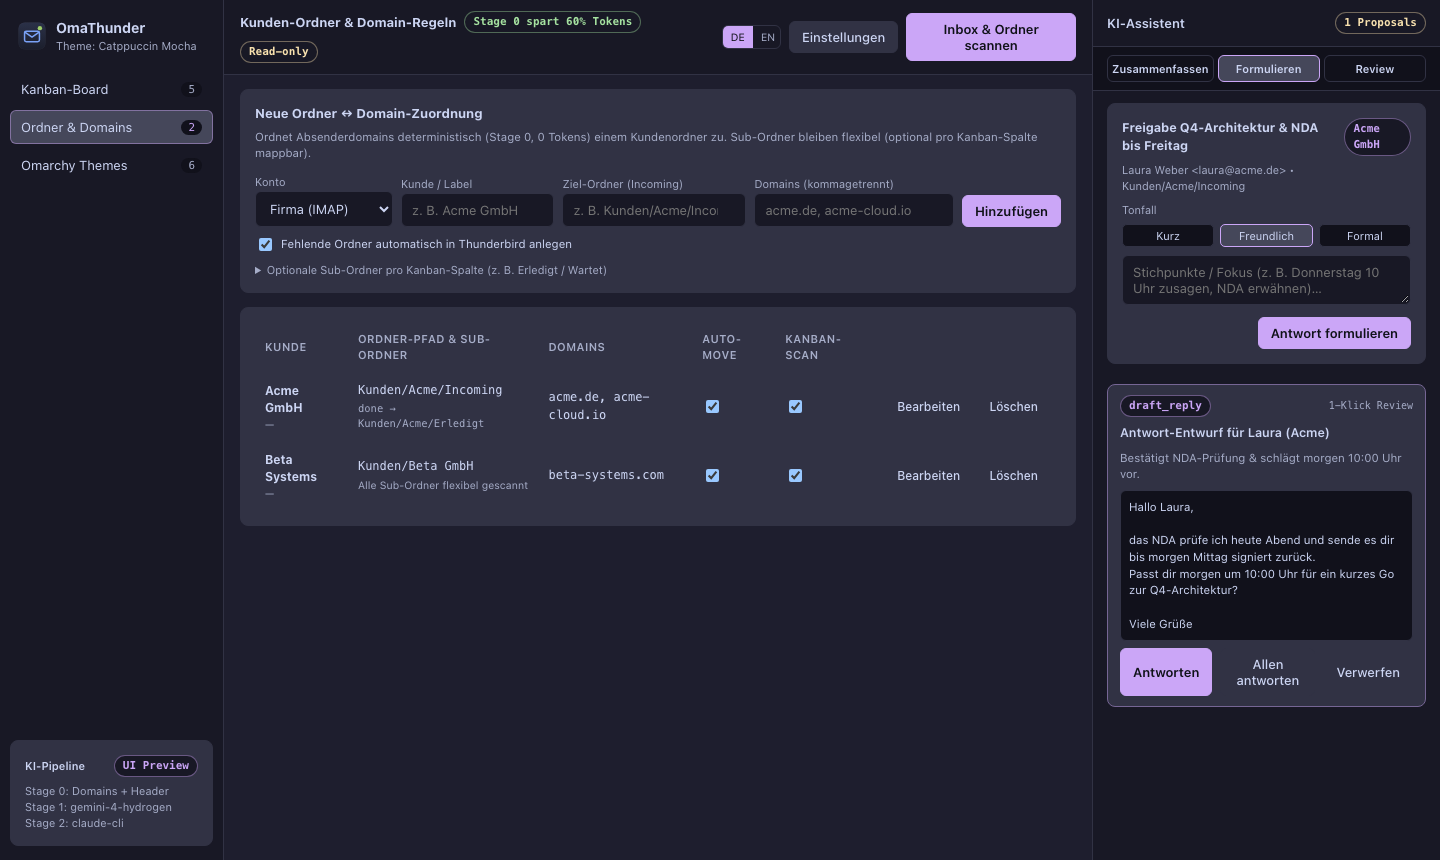
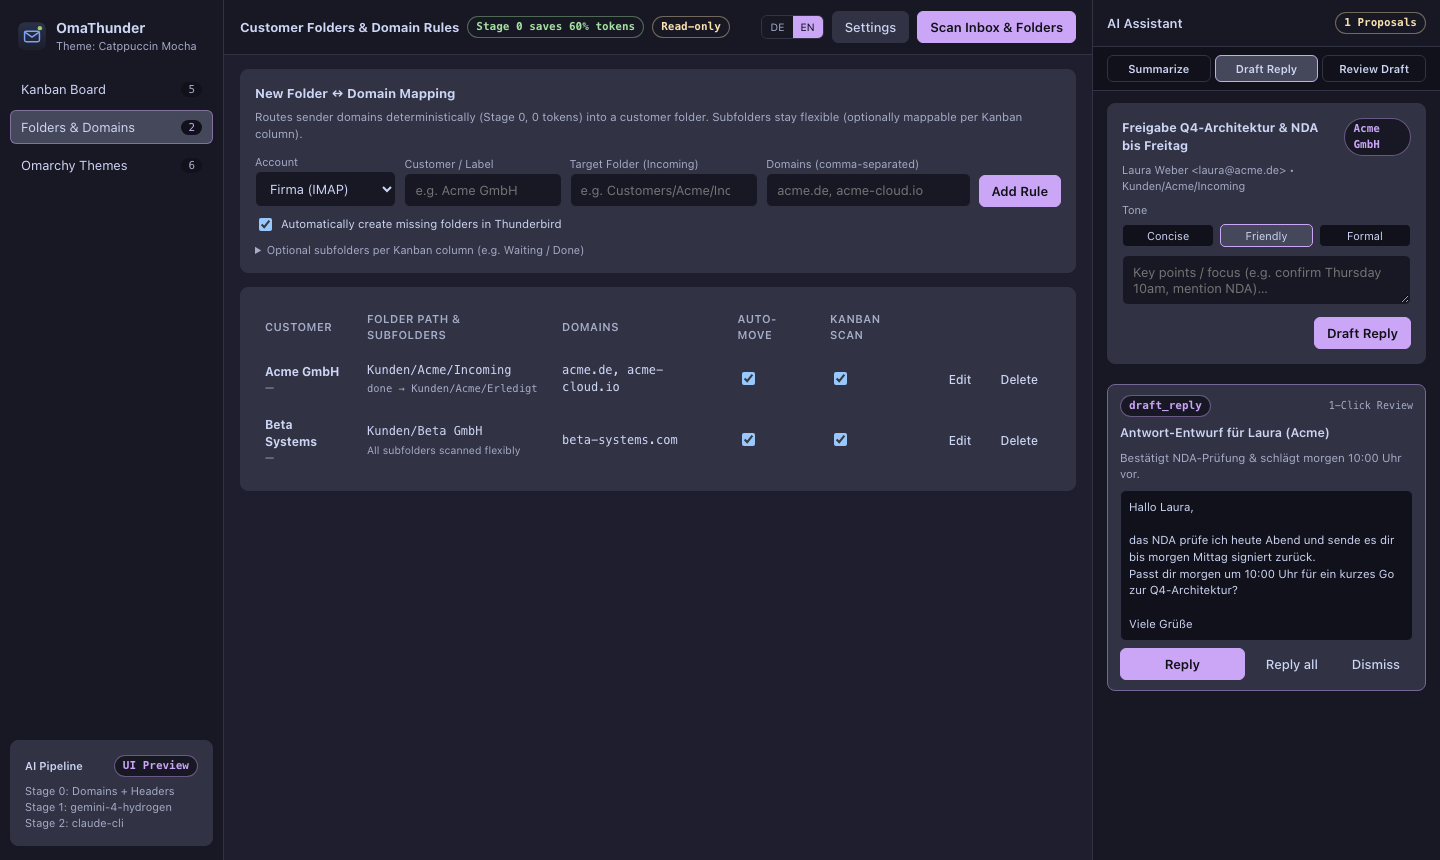
Translate README to English and use English UI in screenshots

diff --git a/README.md b/README.md
@@ -2,176 +2,176 @@
 
 # OmaThunder
 
-**Omarchy-Themes, KI-Schreibassistent und Mail-Triage für Thunderbird – auf Omarchy Linux und macOS.**
+**Omarchy themes, an AI writing assistant and mail triage for Thunderbird – on Omarchy Linux and macOS.**
 
-OmaThunder besteht aus einem Thunderbird-Add-on und einem kleinen Hilfsprogramm (Go), das lokal neben Thunderbird läuft. Die drei Bausteine lassen sich einzeln einschalten:
+OmaThunder consists of a Thunderbird add-on and a small helper program (Go) that runs locally next to Thunderbird. Its three building blocks can be switched on individually:
 
-| Baustein | Was er tut | Standard |
+| Building block | What it does | Default |
 |---|---|---|
-| **Theme-Sync** | Färbt Thunderbird in einem der 22 Omarchy-Themes. Unter Omarchy folgt es live dem aktiven Theme. | an |
-| **KI-Schreibassistent** | Fasst Mails zusammen, formuliert Antworten, prüft und verbessert deine Entwürfe – direkt im Verfassen-Fenster. | an |
-| **Triage** | Scannt Posteingang und Kundenordner, sortiert Mails auf ein Kanban-Board und verschiebt Mails von Kunden-Domains in deren Ordner. | aus |
+| **Theme sync** | Colors Thunderbird in one of 22 Omarchy themes. On Omarchy it follows the active theme live. | on |
+| **AI writing assistant** | Summarizes mails, drafts replies, reviews and improves your drafts – right in the compose window. | on |
+| **Triage** | Scans the inbox and customer folders, sorts mails onto a Kanban board and moves mails from customer domains into their folders. | off |
 
-Gesendet oder gelöscht wird nie etwas. Änderungen an Mails, Ordnern oder Tags sind standardmäßig gesperrt (Read-only).
+Nothing is ever sent or deleted. Changes to mails, folders or tags are blocked by default (read-only).
 
-> **Status:** frühe Version (0.2). Getestet sind Go-Host und Kernlogik per Unit-Tests; der Betrieb in Thunderbird selbst ist noch wenig erprobt. Windows wird gebaut, ist aber ungetestet.
+> **Status:** early version (0.2). The Go host and the core logic are covered by unit tests; running inside Thunderbird has seen little real-world use so far. Windows builds are produced but untested.
 
 ---
 
 ## Installation
 
-Voraussetzung: Thunderbird 128 oder neuer.
+Requires Thunderbird 128 or newer.
 
 ### Homebrew (macOS, Linux)
 
 ```bash
 brew install diver80/tap/omathunder
-omathunder setup        # meldet das Hilfsprogramm bei Thunderbird an (einmalig)
+omathunder setup        # registers the helper program with Thunderbird (once)
 ```
 
-Danach in Thunderbird: **Add-ons und Themes → Zahnrad → Add-on aus Datei installieren** und diese Datei wählen:
+Then in Thunderbird: **Add-ons and Themes → gear icon → Install Add-on From File** and pick:
 
 ```
 $(brew --prefix)/opt/omathunder/share/omathunder/omathunder-extension.xpi
 ```
 
-`omathunder setup` zeigt den genauen Pfad an. Nach einem `brew upgrade omathunder` die `.xpi` erneut installieren, damit Add-on und Hilfsprogramm zusammenpassen. Die Einstellungsseite warnt, wenn sie es nicht tun.
+`omathunder setup` prints the exact path. After `brew upgrade omathunder`, install the `.xpi` again so add-on and helper program match – the settings page warns when they don't.
 
-### Aus dem Quellcode
+### From source
 
 ```bash
 git clone https://github.com/diver80/omathunder.git && cd omathunder
-./build.sh        # Tests, Binaries und dist/omathunder-extension.xpi
-./install.sh      # Binary nach ~/.local/bin, Anmeldung bei Thunderbird
+./build.sh        # tests, binaries and dist/omathunder-extension.xpi
+./install.sh      # binary to ~/.local/bin, registration with Thunderbird
 ```
 
-Anschließend `dist/omathunder-extension.xpi` wie oben in Thunderbird installieren.
+Then install `dist/omathunder-extension.xpi` in Thunderbird as described above.
 
-`setup` und `install.sh` legen nur die Native-Messaging-Anmeldung und ein kleines Startskript an. Thunderbirds Profil und `prefs.js` fassen sie nicht an.
-
----
-
-## Empfohlener Einstieg
-
-1. **Einstellungen öffnen** (Add-on-Optionen oder Knopf im OmaThunder-Tab). Oben unter **Status** muss alles grün sein: Host verbunden, Versionen passen, KI-Backend gefunden.
-2. **Theme und Schreibassistent nutzen.** Triage bleibt aus.
-3. **Triage einschalten, Read-only bleibt an.** Nur das Konto mit den Kundenordnern freigeben, KI-Klassifikation aus lassen. Einen Scan starten und den **Probelauf** prüfen: Er zeigt, welche Mails verschoben würden.
-4. Regeln prüfen (Spalte **Konto**), Auto-Move gezielt pro Regel einschalten.
-5. Erst dann **Read-only ausschalten**. Jeder Scan lässt sich danach über „Verschiebungen dieses Scans zurücknehmen“ rückgängig machen.
+`setup` and `install.sh` only create the native messaging registration and a small launcher script. They never touch Thunderbird's profile or `prefs.js`.
 
 ---
 
-## Schreibassistent
+## Getting started
 
-![Schreibassistent im Verfassen-Fenster](docs/screenshots/compose-assistant.png)
-
-* **Im Verfassen-Fenster** (Knopf „OmaThunder AI“): Entwurf verbessern, Entwurf gegen die Ursprungsmail prüfen, Antwort formulieren oder aus Stichpunkten schreiben. Das Ergebnis erscheint zuerst im Popup; erst „einsetzen“ schreibt es in den Entwurf. Ersetzt wird nur dein eigener Text – Zitat und Signatur bleiben.
-* **An der geöffneten Mail** (Knopf „OmaThunder AI“): zusammenfassen oder Antwort formulieren, auch als „Allen antworten“.
-* **Im OmaThunder-Tab:** dieselben Funktionen für die geöffnete Mail oder eine Board-Karte, inklusive Review deines Entwurfs.
-
-Als Kontext dient der Gesprächsverlauf, verknüpft über die Mail-Header `References` / `In-Reply-To` – nicht nur ein gleicher Betreff. Jede Anfrage ist ein einzelner KI-Aufruf auf deinen Klick.
-
-![Review eines Antwort-Entwurfs](docs/screenshots/space-review.png)
-
-## Triage: Kanban und Kunden-Regeln
-
-![Kanban-Board mit Probelauf im Read-only-Modus](docs/screenshots/space-kanban.png)
-
-* **Board** mit fünf Spalten (Incoming, Action nötig, Wartet, Rechnung/Termin, Erledigt), Filter nach Kunde, Drag & Drop. Karten öffnen die Mail in Thunderbird.
-* **Kunden-Regeln** ordnen Absender-Domains einem Kundenordner zu. Optional verschiebt OmaThunder neue Mails aus dem Posteingang dorthin und mappt Board-Spalten auf Unterordner (z. B. „Erledigt“).
-* **Stufe 0 (lokal, 0 Tokens):** Newsletter, Bot-Mails, Abwesenheitsnotizen und Rechnungen werden über Header und Betreff erkannt. Sicherheits- und Transaktionsmails (Passwort-Reset, Codes, Bestellungen) werden nie automatisch als unwichtig eingestuft.
-* **Stufe 1 (optional, KI):** Was Stufe 0 nicht einordnet, klassifiziert ein schnelles Modell – Gemini API, Claude API, Ollama (lokal) oder eine CLI.
-
-![Kunden-Ordner und Domain-Regeln](docs/screenshots/space-rules.png)
-
-### Token-Verbrauch
-
-* Gescannt wird nur auf Klick (optional zusätzlich bei neuer Mail) und nur die neuesten **20 Mails pro Ordner** der letzten **30 Tage**.
-* **KI-Klassifikation ist standardmäßig aus** – ein Scan kostet dann nichts, die Einordnung ist eine lokale Schätzung.
-* Eingeschaltet gilt eine harte Grenze von **50 KI-Aufrufen pro Scan**; ungelesene Mails zuerst. Bereits klassifizierte Mails werden nicht erneut abgefragt.
-* Der Scan-Bericht zeigt, wie viele Aufrufe gemacht und wie viele Mails nur geschätzt wurden.
-
-Alle Werte sind in den Einstellungen änderbar.
-
-## Theme-Sync
-
-![Theme-Galerie](docs/screenshots/space-themes.png)
-
-* Färbt Toolbars, Tabs, Ordnerliste und Popups über die Theme-Schnittstelle von Thunderbird – ohne Neustart.
-* Optional auch Mail-Inhalt und Editor (standardmäßig aus, weil HTML-Mails mit fest eingestellten Farben sonst schwer lesbar werden können).
-* **Omarchy:** folgt live `~/.local/state/omarchy/current/theme/colors.toml`.
-* **macOS:** eines der 22 eingebetteten Omarchy-Themes wählen (Galerie, Popup, Einstellungen oder `omathunder theme set nord`) oder automatisch dem Hell-/Dunkel-Modus folgen.
-
-![Mail-Kanban im Theme Flexoki Light](docs/screenshots/space-kanban-light.png)
+1. **Open the settings** (add-on options, or the button in the OmaThunder tab). Everything under **Status** should be green: host connected, versions match, AI backend found.
+2. **Use theme and writing assistant.** Leave triage off.
+3. **Switch triage on, keep read-only on.** Enable only the account that holds your customer folders and leave AI classification off. Run a scan and check the **dry run**: it lists which mails would be moved.
+4. Check your rules (column **Account**) and enable auto-move per rule where you want it.
+5. Only then **switch read-only off**. Every scan can be undone afterwards via "Undo this scan's moves".
 
 ---
 
-## Sicherheit
+## Writing assistant
 
-| Schutz | Wirkung |
+![Writing assistant in the compose window](docs/screenshots/compose-assistant.png)
+
+* **In the compose window** ("OmaThunder AI" button): improve your draft, review it against the original mail, draft a reply, or write a mail from notes. The result shows up in the popup first; only "insert" writes it into the draft. Only your own text is replaced – quote and signature stay untouched.
+* **On the open mail** ("OmaThunder AI" button): summarize or draft a reply, also as "Reply all".
+* **In the OmaThunder tab:** the same functions for the open mail or a board card, including a review of your draft.
+
+The conversation is used as context, linked through the `References` / `In-Reply-To` headers – not just by a matching subject. Every request is a single AI call, triggered by your click.
+
+![Reviewing a reply draft](docs/screenshots/space-review.png)
+
+## Triage: Kanban and customer rules
+
+![Kanban board with a dry run in read-only mode](docs/screenshots/space-kanban.png)
+
+* **Board** with five columns (Incoming, Action needed, Waiting, Invoice/Event, Done), filter by customer, drag & drop. Cards open the mail in Thunderbird.
+* **Customer rules** map sender domains to a customer folder. Optionally OmaThunder moves new inbox mails there and maps board columns to subfolders (e.g. "Done").
+* **Stage 0 (local, 0 tokens):** newsletters, bot mails, out-of-office replies and invoices are recognized by headers and subject. Security and transaction mails (password resets, codes, orders) are never automatically marked as unimportant.
+* **Stage 1 (optional, AI):** whatever stage 0 cannot place is classified by a fast model – Gemini API, Claude API, Ollama (local) or a CLI.
+
+![Customer folders and domain rules](docs/screenshots/space-rules.png)
+
+### Token usage
+
+* Scans only run on click (optionally also on new mail) and only cover the newest **20 mails per folder** from the last **30 days**.
+* **AI classification is off by default** – a scan then costs nothing and the classification is a local estimate.
+* When it is on, a hard limit of **50 AI calls per scan** applies, unread mails first. Mails that were already classified are not sent again.
+* The scan report shows how many calls were made and how many mails were only estimated.
+
+All values can be changed in the settings.
+
+## Theme sync
+
+![Theme gallery](docs/screenshots/space-themes.png)
+
+* Colors toolbars, tabs, folder pane and popups through Thunderbird's theme API – no restart needed.
+* Optionally also message bodies and the editor (off by default, because HTML mails with fixed text colors can otherwise become hard to read).
+* **Omarchy:** follows `~/.local/state/omarchy/current/theme/colors.toml` live.
+* **macOS:** pick one of the 22 bundled Omarchy themes (gallery, popup, settings or `omathunder theme set nord`) or follow the system's light/dark mode.
+
+![Mail Kanban in the Flexoki Light theme](docs/screenshots/space-kanban-light.png)
+
+---
+
+## Safety
+
+| Protection | Effect |
 |---|---|
-| **Read-only** (Standard) | Keine Änderungen an Mails, Ordnern oder Tags. Scans zeigen geplante Verschiebungen nur als Probelauf. Antwortentwürfe öffnen sich trotzdem – gesendet wird nie automatisch. |
-| **Triage pro Konto** | Nur freigegebene Konten werden gescannt, an die KI geschickt und verändert. Verschieben zwischen Konten ist gesperrt. |
-| **Auto-Move eng gefasst** | Nur aus dem Posteingang, nur bei Treffer über die Absender-Domain, optional nur ungelesene Mails, nie aus Kundenordnern heraus. Mails, bei denen der Mailserver eine fehlgeschlagene DKIM-/DMARC-Prüfung vermerkt hat, werden nie verschoben (gefälschter Absender). Vor jedem Verschieben wird die Mail im Postfach erneut geprüft. |
-| **Eindeutige Mail-Zuordnung** | Gespeicherte Mails werden über ihre Message-ID wiedergefunden. Ist der Treffer nicht eindeutig, passiert nichts. |
-| **Rückgängig** | Verschiebungen eines Scans und einer gelöschten Regel lassen sich zurücknehmen – aber nur für Mails, die noch dort liegen, wo OmaThunder sie hingelegt hat. |
-| **Kein Löschen, kein Senden** | Das Add-on hat die Berechtigungen dafür gar nicht (`messagesDelete`, `compose.send`). |
-| **KI-Backends** | Die Claude-CLI läuft ohne Werkzeuge und ohne MCP-Server und erhält den Mailtext über stdin. Gemini-CLI und OpenCode-CLI lassen sich nicht ohne Werkzeuge starten und sind gesperrt, bis du sie ausdrücklich erlaubst. |
+| **Read-only** (default) | No changes to mails, folders or tags. Scans only report planned moves as a dry run. Reply drafts still open – nothing is ever sent automatically. |
+| **Triage per account** | Only enabled accounts are scanned, sent to the AI and changed. Moving mails between accounts is blocked. |
+| **Narrow auto-move** | Only from the inbox, only on a sender-domain match, optionally only unread mails, never out of customer folders. Mails for which the mail server recorded a failed DKIM/DMARC check are never moved (forged sender). Each mail is checked again in the mailbox right before it is moved. |
+| **Unambiguous mail lookup** | Stored mails are found again by their Message-ID. If the match is ambiguous, nothing happens. |
+| **Undo** | Moves of a scan or of a deleted rule can be undone – but only for mails still in the folder OmaThunder put them in. |
+| **No deleting, no sending** | The add-on does not even have the permissions for it (`messagesDelete`, `compose.send`). |
+| **AI backends** | The Claude CLI runs without tools and without MCP servers and receives the mail text via stdin. Gemini CLI and OpenCode CLI cannot be started without tools and stay blocked until you explicitly allow them. |
 
-Mailinhalte gehen nur an das KI-Backend, das du in den Einstellungen gewählt hast. Mit Ollama bleibt alles auf deinem Rechner.
+Mail content only goes to the AI backend you chose in the settings. With Ollama everything stays on your machine.
 
-## Einstellungen
+## Settings
 
-![Einstellungen mit Status, Funktionen und Sicherheit](docs/screenshots/options.png)
+![Settings with status, features and safety](docs/screenshots/options.png)
 
-### KI-Zugänge einrichten
+### Setting up AI access
 
-Thunderbird startet das Hilfsprogramm ohne deine Shell-Umgebung. API-Keys liest es deshalb aus einer eigenen Datei:
+Thunderbird starts the helper program without your shell environment, so API keys are read from a separate file:
 
 * macOS: `~/Library/Application Support/omathunder/env`
 * Linux: `~/.config/omathunder/env`
 
 ```bash
-export GEMINI_API_KEY=...        # Backend "Gemini API"
-export ANTHROPIC_API_KEY=...     # Backend "Anthropic Claude API"
+export GEMINI_API_KEY=...        # backend "Gemini API"
+export ANTHROPIC_API_KEY=...     # backend "Anthropic Claude API"
 ```
 
-Danach Thunderbird neu starten. Die Claude-CLI braucht keinen Eintrag, sie nutzt ihre eigene Anmeldung. Der Abschnitt **Status** in den Einstellungen zeigt, ob Keys und Programme gefunden wurden.
+Restart Thunderbird afterwards. The Claude CLI needs no entry; it uses its own login. The **Status** section of the settings shows whether keys and programs were found.
 
 ---
 
-## Kommandozeile
+## Command line
 
 ```bash
-omathunder setup            # bei Thunderbird anmelden
-omathunder doctor           # Status: Omarchy, CLIs, API-Keys, Anmeldung
-omathunder theme list       # alle 22 Themes
-omathunder theme set nord   # Theme direkt setzen
-omathunder bar-summary      # Zahlen für die Omarchy-Leiste
-omathunder classify --subject "..." --from "..." --body "..."   # Test-Klassifikation (ruft die KI auf)
-omathunder uninstall        # Anmeldung, Einstellungen und Zustand entfernen
+omathunder setup            # register with Thunderbird
+omathunder doctor           # status: Omarchy, CLIs, API keys, registration
+omathunder theme list       # all 22 themes
+omathunder theme set nord   # set a theme directly
+omathunder bar-summary      # numbers for the Omarchy bar
+omathunder classify --subject "..." --from "..." --body "..."   # test classification (calls the AI)
+omathunder uninstall        # remove registration, settings and state
 ```
 
-## Deinstallation
+## Uninstall
 
 ```bash
 omathunder uninstall && brew uninstall omathunder   # Homebrew
-./uninstall.sh                                      # Installation aus dem Quellcode
+./uninstall.sh                                      # installed from source
 ```
 
-Danach das Add-on im Thunderbird-Add-on-Manager entfernen. `uninstall` löscht auch deine Regeln und Einstellungen. Mails und Thunderbird-Profil bleiben unberührt.
+Then remove the add-on in Thunderbird's add-on manager. `uninstall` also deletes your rules and settings. Mails and the Thunderbird profile stay untouched.
 
-## Entwicklung
+## Development
 
 ```bash
-go test ./...               # Host: Config, Auto-Move-Regeln, Read-only, Nebenläufigkeit
-node tests/core.test.js     # Kernlogik des Add-ons (macOS ohne Node: jsc tests/core.test.js)
-./build.sh                  # beide Testläufe, Binaries für macOS/Linux/Windows, .xpi, SHA256SUMS
-./release.sh                # Tag, GitHub-Release und Werte für die Homebrew-Formel
+go test ./...               # host: config, auto-move rules, read-only, concurrency
+node tests/core.test.js     # add-on core logic (macOS without Node: jsc tests/core.test.js)
+./build.sh                  # both test runs, binaries for macOS/Linux/Windows, .xpi, SHA256SUMS
+./release.sh                # tag, GitHub release and values for the Homebrew formula
 ```
 
-Aufbau und Sicherheitsmodell: [docs/ARCHITECTURE.md](docs/ARCHITECTURE.md).
+Architecture and safety model: [docs/ARCHITECTURE.md](docs/ARCHITECTURE.md).
 
-## Lizenz
+## License
 
-MIT – siehe [LICENSE](LICENSE).
+MIT – see [LICENSE](LICENSE).
